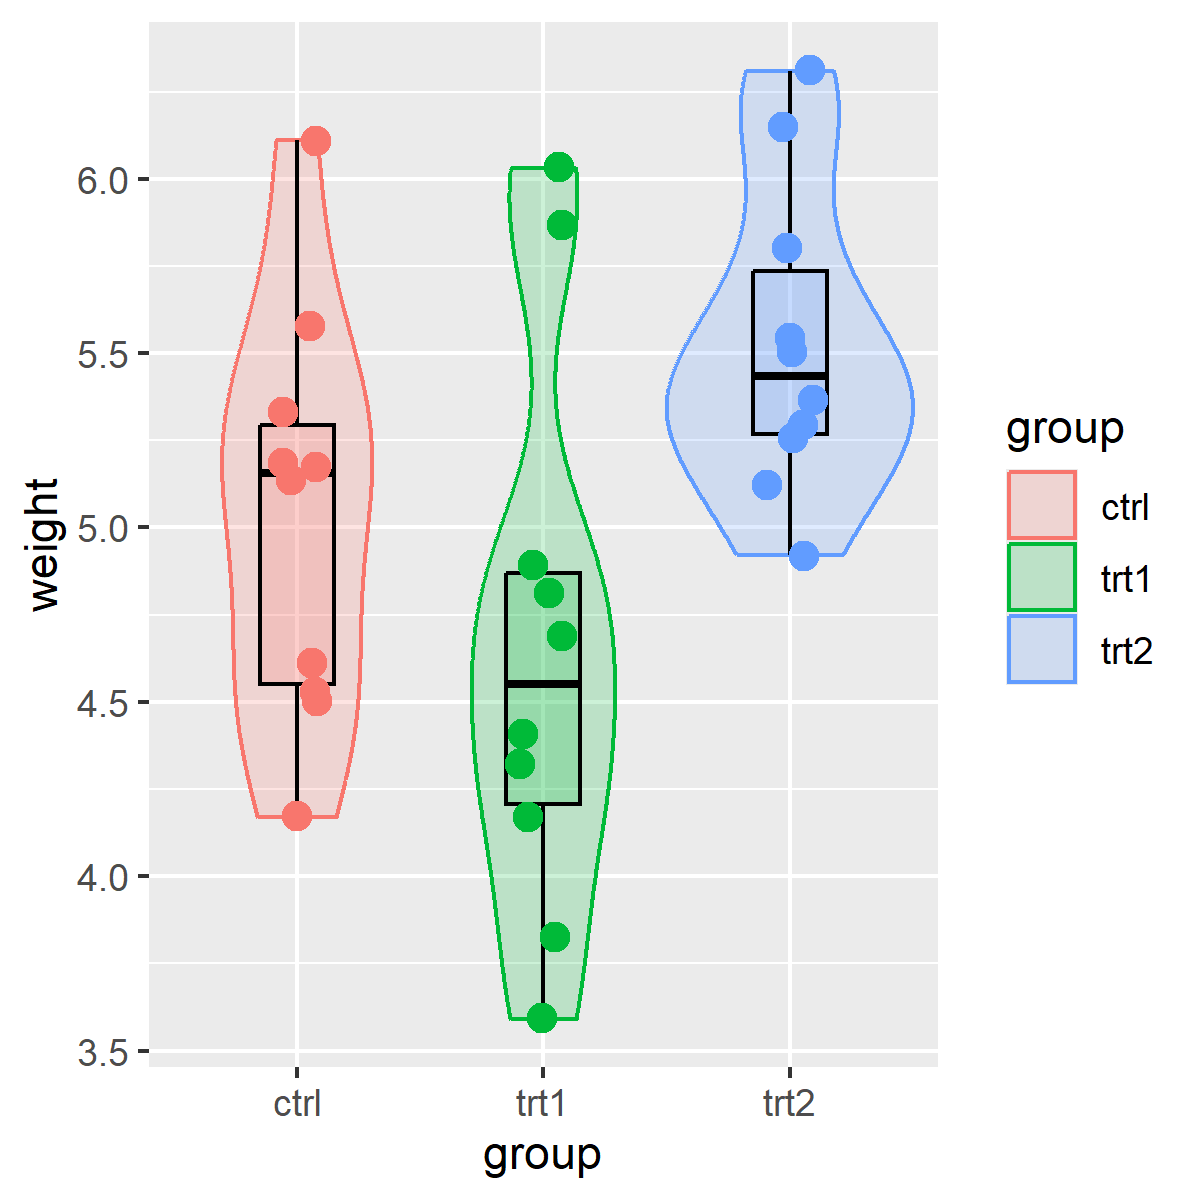
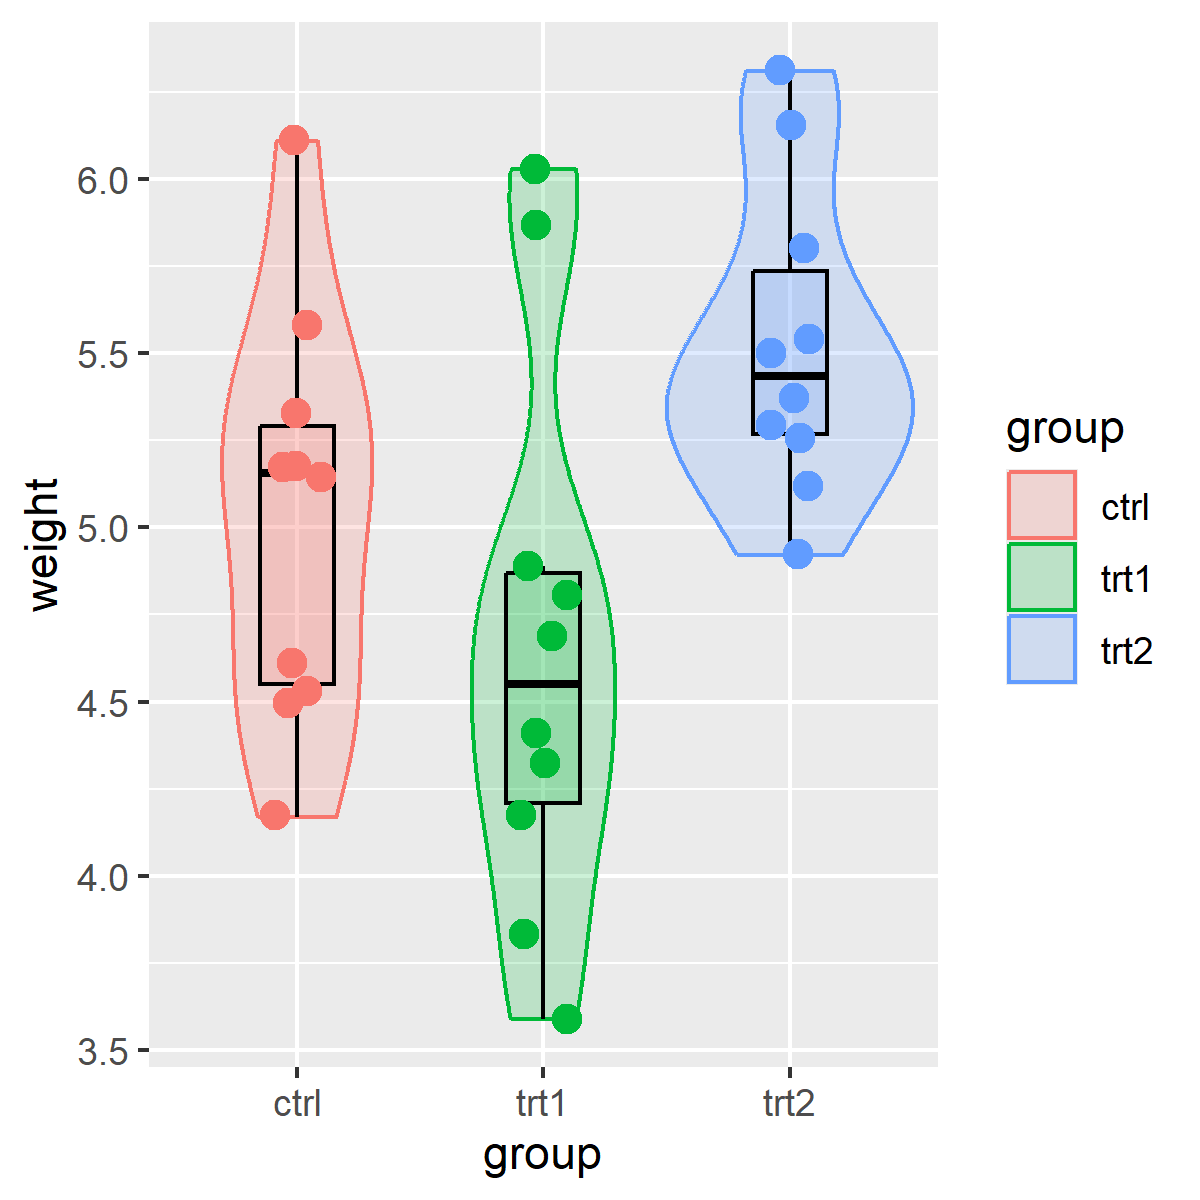
.

diff --git a/docs/posts/ggstatsplot/index.html b/docs/posts/ggstatsplot/index.html
@@ -7,7 +7,7 @@
 <meta name="viewport" content="width=device-width, initial-scale=1.0, user-scalable=yes">
 
 <meta name="author" content="Duc Nguyen">
-<meta name="dcterms.date" content="2026-02-23">
+<meta name="dcterms.date" content="2026-08-22">
 
 <title>ggstatsplot – Vẽ đồ thị</title>
 <style>
@@ -370,7 +370,7 @@ pre > code.sourceCode > span > a:first-child::before { text-decoration: underlin
     <div>
     <div class="quarto-title-meta-heading">Published</div>
     <div class="quarto-title-meta-contents">
-      <p class="date">February 23, 2026</p>
+      <p class="date">August 22, 2026</p>
     </div>
   </div>
   
@@ -445,13 +445,13 @@ pre > code.sourceCode > span > a:first-child::before { text-decoration: underlin
 <span id="cb1-60"><a href="#cb1-60" aria-hidden="true" tabindex="-1"></a>p_gtable <span class="ot">-&gt;</span> p_gtable_ori</span>
 <span id="cb1-61"><a href="#cb1-61" aria-hidden="true" tabindex="-1"></a></span>
 <span id="cb1-62"><a href="#cb1-62" aria-hidden="true" tabindex="-1"></a><span class="fu">library</span>(lemon)</span>
-<span id="cb1-63"><a href="#cb1-63" aria-hidden="true" tabindex="-1"></a><span class="co"># lemon::gtable_show_names(p_gtable)</span></span>
+<span id="cb1-63"><a href="#cb1-63" aria-hidden="true" tabindex="-1"></a>lemon<span class="sc">::</span><span class="fu">gtable_show_names</span>(p_gtable)</span>
 <span id="cb1-64"><a href="#cb1-64" aria-hidden="true" tabindex="-1"></a></span>
-<span id="cb1-65"><a href="#cb1-65" aria-hidden="true" tabindex="-1"></a>p_gtable<span class="sc">$</span>grobs[[<span class="dv">14</span>]]<span class="sc">$</span>children[[<span class="dv">1</span>]]<span class="sc">$</span>label <span class="ot">&lt;-</span> <span class="cn">NULL</span></span>
+<span id="cb1-65"><a href="#cb1-65" aria-hidden="true" tabindex="-1"></a>p_gtable<span class="sc">$</span>grobs[[<span class="dv">13</span>]]<span class="sc">$</span>children[[<span class="dv">1</span>]]<span class="sc">$</span>label <span class="ot">&lt;-</span> <span class="cn">NULL</span></span>
 <span id="cb1-66"><a href="#cb1-66" aria-hidden="true" tabindex="-1"></a></span>
-<span id="cb1-67"><a href="#cb1-67" aria-hidden="true" tabindex="-1"></a>p_gtable<span class="sc">$</span>grobs[[<span class="dv">6</span>]]<span class="sc">$</span>children[[<span class="dv">4</span>]] <span class="ot">&lt;-</span> <span class="cn">NULL</span></span>
+<span id="cb1-67"><a href="#cb1-67" aria-hidden="true" tabindex="-1"></a>p_gtable<span class="sc">$</span>grobs[[<span class="dv">5</span>]]<span class="sc">$</span>children[[<span class="dv">4</span>]] <span class="ot">&lt;-</span> <span class="cn">NULL</span></span>
 <span id="cb1-68"><a href="#cb1-68" aria-hidden="true" tabindex="-1"></a></span>
-<span id="cb1-69"><a href="#cb1-69" aria-hidden="true" tabindex="-1"></a>p_gtable<span class="sc">$</span>grobs[[<span class="dv">6</span>]]<span class="sc">$</span>children[[<span class="dv">3</span>]]<span class="sc">$</span>pch <span class="ot">&lt;-</span> <span class="fu">c</span>(<span class="fu">rep</span>(<span class="dv">15</span>,</span>
+<span id="cb1-69"><a href="#cb1-69" aria-hidden="true" tabindex="-1"></a>p_gtable<span class="sc">$</span>grobs[[<span class="dv">5</span>]]<span class="sc">$</span>children[[<span class="dv">3</span>]]<span class="sc">$</span>pch <span class="ot">&lt;-</span> <span class="fu">c</span>(<span class="fu">rep</span>(<span class="dv">15</span>,</span>
 <span id="cb1-70"><a href="#cb1-70" aria-hidden="true" tabindex="-1"></a>                                             <span class="at">times =</span> <span class="dv">10</span>),</span>
 <span id="cb1-71"><a href="#cb1-71" aria-hidden="true" tabindex="-1"></a>                                           <span class="fu">rep</span>(<span class="dv">16</span>,</span>
 <span id="cb1-72"><a href="#cb1-72" aria-hidden="true" tabindex="-1"></a>                                               <span class="at">times =</span> <span class="dv">10</span>),</span>
@@ -459,7 +459,7 @@ pre > code.sourceCode > span > a:first-child::before { text-decoration: underlin
 <span id="cb1-74"><a href="#cb1-74" aria-hidden="true" tabindex="-1"></a>                                               <span class="at">times =</span> <span class="dv">10</span>)</span>
 <span id="cb1-75"><a href="#cb1-75" aria-hidden="true" tabindex="-1"></a>                                           )</span>
 <span id="cb1-76"><a href="#cb1-76" aria-hidden="true" tabindex="-1"></a></span>
-<span id="cb1-77"><a href="#cb1-77" aria-hidden="true" tabindex="-1"></a>p_gtable<span class="sc">$</span>grobs[[<span class="dv">6</span>]]<span class="sc">$</span>children[[<span class="dv">3</span>]]<span class="sc">$</span>gp<span class="sc">$</span>col <span class="ot">&lt;-</span> <span class="fu">c</span>(<span class="fu">rep</span>(<span class="fu">adjustcolor</span>(<span class="at">col =</span> <span class="st">"red"</span>, <span class="at">alpha.f =</span> <span class="fl">0.5</span>),</span>
+<span id="cb1-77"><a href="#cb1-77" aria-hidden="true" tabindex="-1"></a>p_gtable<span class="sc">$</span>grobs[[<span class="dv">5</span>]]<span class="sc">$</span>children[[<span class="dv">3</span>]]<span class="sc">$</span>gp<span class="sc">$</span>col <span class="ot">&lt;-</span> <span class="fu">c</span>(<span class="fu">rep</span>(<span class="fu">adjustcolor</span>(<span class="at">col =</span> <span class="st">"red"</span>, <span class="at">alpha.f =</span> <span class="fl">0.5</span>),</span>
 <span id="cb1-78"><a href="#cb1-78" aria-hidden="true" tabindex="-1"></a>                                                  <span class="at">times =</span> <span class="dv">10</span>),</span>
 <span id="cb1-79"><a href="#cb1-79" aria-hidden="true" tabindex="-1"></a>                                              <span class="fu">rep</span>(<span class="fu">adjustcolor</span>(<span class="at">col =</span> <span class="st">"blue"</span>, <span class="at">alpha.f =</span> <span class="fl">0.5</span>),</span>
 <span id="cb1-80"><a href="#cb1-80" aria-hidden="true" tabindex="-1"></a>                                                  <span class="at">times =</span> <span class="dv">10</span>),</span>

diff --git a/docs/index.html b/docs/index.html
@@ -393,7 +393,7 @@ window.Quarto = {
     </div>
 </div>
 <div class="list grid quarto-listing-cols-3">
-<div class="g-col-1" data-index="0" data-categories="QU5PVkE=" data-listing-date-sort="1771849653000" data-listing-file-modified-sort="1771849653911" data-listing-date-modified-sort="NaN" data-listing-reading-time-sort="8" data-listing-word-count-sort="1458">
+<div class="g-col-1" data-index="0" data-categories="QU5PVkE=" data-listing-date-sort="1787412391000" data-listing-file-modified-sort="1787412391519" data-listing-date-modified-sort="NaN" data-listing-reading-time-sort="8" data-listing-word-count-sort="1457">
 <a href="./posts/ggstatsplot/index.html" class="quarto-grid-link">
 <div class="quarto-grid-item card h-100 card-left">
 <p class="card-img-top">
